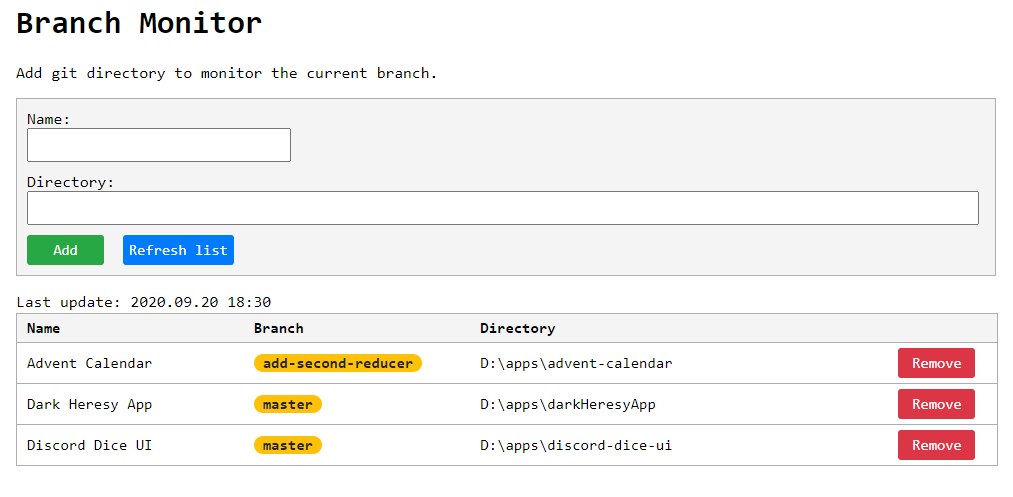
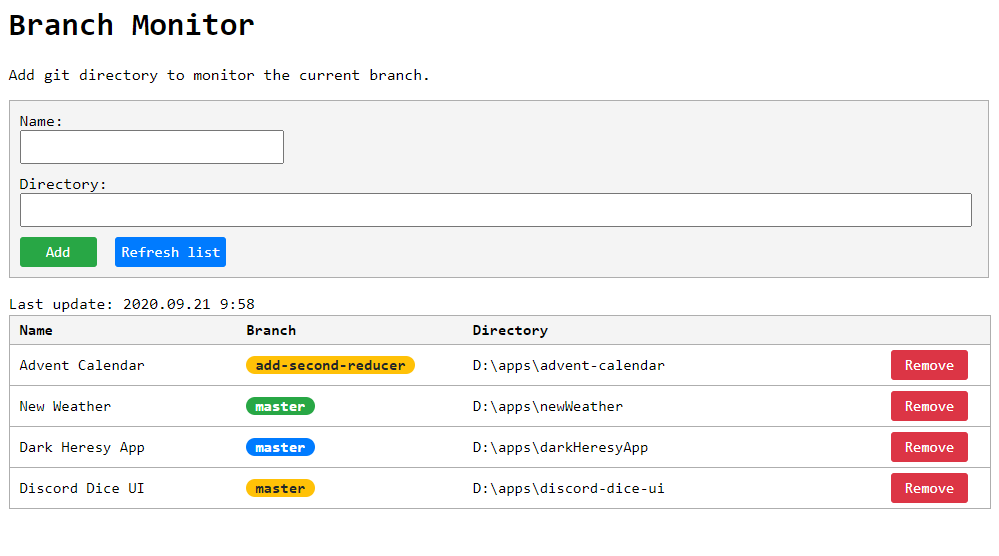
Add different color pills

Changed region(s): [[0.0, 0.1207, 0.993, 0.9356], [0.0, 0.0, 0.2793, 0.0905]]

diff --git a/src/script/List.js b/src/script/List.js
@@ -1,4 +1,5 @@
 import getTime from './getTime';
+import colors, { getNextColor } from './colors';
 
 export default class List {
 	constructor(rootId, templateId) {
@@ -29,6 +30,7 @@ export default class List {
 		for (let repo of this.repoList) {
 			// Add rows
 			const newRow = tableRow.cloneNode(true);
+
 			newRow.querySelector('[data-cell="name"]').textContent = repo.name;
 			newRow.querySelector('[data-branch-name]').textContent = repo.branch;
 			newRow.querySelector('[data-cell="dir"]').textContent = repo.dir;
@@ -38,8 +40,43 @@ export default class List {
 				() => this.remove(repo.id)
 			);
 
-			if (!repo.branch) {
-				newRow.classList.add('table__row--inactive')
+			if (repo.branch) {
+				const pill = newRow.querySelector('[data-branch-name]');
+				switch (Number(repo.color)) {
+					case colors.ORANGE:
+						pill.classList.add('pill--orange');
+						break;
+					case colors.BLUE:
+						pill.classList.add('pill--blue');
+						break;
+					case colors.GREEN:
+						pill.classList.add('pill--green');
+						break;
+					case colors.DARK:
+						pill.classList.add('pill--dark');
+						break;
+					case colors.AQUA:
+						pill.classList.add('pill--aqua');
+						break;
+					case colors.RED:
+						pill.classList.add('pill--red');
+						break;
+					case colors.GRAY:
+						pill.classList.add('pill--gray');
+						break;
+					default:
+						break;
+				}
+				pill.addEventListener('click', () => {
+					this.updateRow(
+						repo.id,
+						'color',
+						getNextColor(repo.color)
+					);
+				});
+			} else {
+				// Gray out the row
+				newRow.classList.add('table__row--inactive');
 			}
 
 			// Append rows
@@ -53,8 +90,7 @@ export default class List {
 		tableRow.parentNode.removeChild(tableRow);
 
 		// Attach updated table to the DOM
-		this.attach(newElement)
-
+		this.attach(newElement);
 	}
 
 	attach(newElement) {
@@ -80,7 +116,19 @@ export default class List {
 			},
 			body: JSON.stringify(newRepo)
 		})
-		.then(_ => this.render())
-		.catch(e => console.error(e));
+			.then(_ => this.render())
+			.catch(e => console.error(e));
+	}
+
+	updateRow(id, key, value) {
+		fetch('/updateOne', {
+			method: 'POST',
+			headers: {
+				'Content-Type': 'application/json;charset=utf-8'
+			},
+			body: JSON.stringify({ id, key, value })
+		})
+			.then(_ => this.render())
+			.catch(e => console.error(e));
 	}
 }

diff --git a/backend/database.js b/backend/database.js
@@ -21,9 +21,10 @@ class Database {
 	
 	init() {
 		this.connect();
+		// 'order' is a reserved word and cannot be used as a col name
 		this.db.run(`
 			CREATE TABLE IF NOT EXISTS
-				repo_list(id, name, branch, dir)
+				repo_list(id, name, branch, dir, color, _order)
 			`);
 		this.close();
 	}
@@ -33,8 +34,14 @@ class Database {
 		return new Promise((resolve, reject) => {
 			this.db.run(`
 				INSERT INTO
-					repo_list(id, name, branch, dir)
-				VALUES('${data.id}', '${data.name}', '${data.branch}', '${data.dir}')
+					repo_list(id, name, branch, dir, color, _order)
+				VALUES('${data.id}',
+					'${data.name}',
+					'${data.branch}',
+					'${data.dir}',
+					'${data.color}',
+					'${data.order}'
+				)
 			`, (err) => {
 				if (err) {
 					reject(err.message);
@@ -73,9 +80,31 @@ class Database {
 				} catch (e) {
 					console.log(`Git repo not found in ${row.dir}`);
 				}
-				this.db.run(`UPDATE repo_list SET branch = '${name}' WHERE id = '${row.id}'`);
-				resolve('Row updated');
+				this.db.run(`
+					UPDATE
+						repo_list
+					SET
+						branch = '${name}'
+					WHERE
+						id = '${row.id}'
+					`);
+				resolve(`Row ${row.id} updated`);
 			}
+			this.close();
+		});
+	}
+
+	updateOne(id, key, value) {
+		this.connect();
+		return new Promise(async (resolve) => {
+			this.db.run(`
+				UPDATE
+					repo_list
+				SET
+					${key} = '${value}'
+				WHERE id = '${id}'
+			`);
+			resolve(`Row ${id} updated`);
 			this.close();
 		});
 	}

diff --git a/public/index.css b/public/index.css
@@ -90,39 +90,64 @@ body {
 	font-size: 15px;
 }
 
-.button--danger {
-	background: #dc3545;
+.button:hover {
+	opacity: .8;
 }
 
-.button--danger:hover {
-	background: #ec707c
+.button--danger {
+	background: #dc3545;
 }
 
 .button--success {
 	background: #28a745;
 }
 
-.button--success:hover {
-	background: #52dc71;
-}
-
 .button--info {
 	background: #007bff;
 }
 
-.button--info:hover {
-	background: #87b4e4;
-}
-
 .pill {
-	color: #212529;
-	background-color: #ffc107;
+	color: #fff;
 	padding-right: .6em;
 	padding-left: .6em;
 	border-radius: 10rem;
 	display: inline-block;
 	white-space: nowrap;
 	font-weight: bold;
+	cursor: pointer;
+}
+
+.pill:hover {
+	opacity: .8;
+}
+
+.pill--orange {
+	color: #212529;
+	background: #ffc107;
+}
+
+.pill--blue {
+	background: #007bff;
+}
+
+.pill--green {
+	background-color: #28a745;
+}
+
+.pill--dark {
+	background-color: #343a40;
+}
+
+.pill--aqua {
+	background-color: #17a2b8;
+}
+
+.pill--red {
+	background: #dc3545;
+}
+
+.pill--gray {
+	background: #6c757d;
 }
 
 form {

diff --git a/backend/server.js b/backend/server.js
@@ -27,6 +27,21 @@ app.post('/add', (req, res) => {
 		.catch(err => res.status(500).send(err));
 });
 
+app.post('/updateOne', (req, res) => {
+	database.updateOne(
+		req.body.id,
+		req.body.key,
+		req.body.value
+	)
+	.then((result) => {
+		res.send(result);
+	})
+	.catch((err) => {
+		console.error(err);
+		res.status(500).send(err);
+	});
+});
+
 app.get('/updateAll', (req, res) => {
 	database.updateAll()
 		.then((result) => {

diff --git a/src/script/colors.js b/src/script/colors.js
@@ -1,0 +1,21 @@
+const colors = {
+	ORANGE: 0,
+	BLUE: 1,
+	GREEN: 2,
+	DARK: 3,
+	AQUA: 4,
+	RED: 5,
+	GRAY: 6
+};
+
+export function getNextColor(currentColor) {
+	const currentColorNum = Number(currentColor);
+
+	if (currentColorNum >= Object.keys(colors).length - 1) {
+		return 0;
+	} else {
+		return currentColorNum + 1;
+	}
+}
+
+export default colors;

diff --git a/src/script/index.js b/src/script/index.js
@@ -13,8 +13,10 @@ document.querySelector('[data-add-repo-form]').addEventListener('submit',(e) => 
 		name: nameInput.value.trim(),
 		dir: dirInput.value.trim(),
 		branch: '',
-		id: Date.now()
-	}
+		id: Date.now(),
+		color: 0,
+		order: ''
+	};
 
 	// clear inputs
 	nameInput.value = '';
